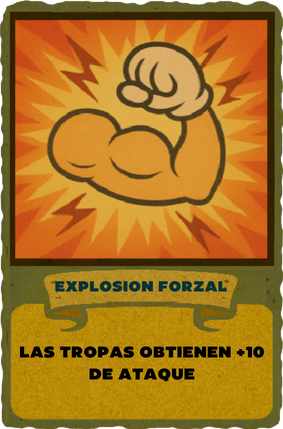
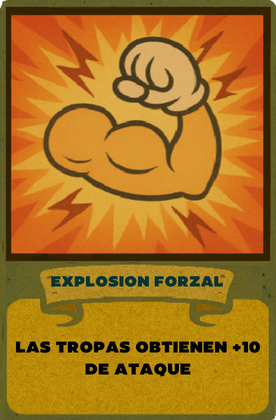
VERSION (0.28)
Editado tipo de Imagen de las Cartas Efectos, Cambiado el Sistema de Orden de los mismos con RegistroEfectos (Aunque tambien se agregan desde PantallaSeleccionEfecto)

Agregado (1) Nuevo Efecto:
-TYSON

diff --git a/core/src/main/java/mijuego/picadoh/efectos/RegistroEfectos.java b/core/src/main/java/mijuego/picadoh/efectos/RegistroEfectos.java
@@ -1,0 +1,57 @@
+package mijuego.picadoh.efectos;
+
+import java.util.*;
+import java.lang.reflect.Constructor;
+
+public final class RegistroEfectos {
+    private RegistroEfectos() {}
+
+    private static final List<Class<? extends CartaEfecto>> EFECTOS = List.of(
+        Acelereitor.class,
+        EscudoReal.class,
+        ExplosionForzal.class,
+        MagiaBendita.class,
+        SenoraArmadura.class,
+        Tyson.class
+    );
+
+    public static List<Class<? extends CartaEfecto>> efectosDisponibles() {
+        return EFECTOS;
+    }
+
+    public static CartaEfecto crear(Class<? extends CartaEfecto> clazz) {
+        try {
+            Constructor<? extends CartaEfecto> ctor = clazz.getDeclaredConstructor();
+            ctor.setAccessible(true);
+            return ctor.newInstance();
+        } catch (Exception e) {
+            throw new RuntimeException("No se pudo instanciar " + clazz.getSimpleName(), e);
+        }
+    }
+
+    public static Optional<CartaEfecto> crearPorNombre(String nombre) {
+        for (Class<? extends CartaEfecto> c : EFECTOS) {
+            // Coincidencia por nombre de clase
+            if (c.getSimpleName().equalsIgnoreCase(nombre)) {
+                return Optional.of(crear(c));
+            }
+
+            try {
+                CartaEfecto tmp = crear(c);
+                if (tmp.getNombre().equalsIgnoreCase(nombre)) {
+                    return Optional.of(tmp);
+                }
+            } catch (RuntimeException ignored) {}
+        }
+        return Optional.empty();
+    }
+
+    public static List<CartaEfecto> aleatorias(int n, Random rnd) {
+        List<Class<? extends CartaEfecto>> copia = new ArrayList<>(EFECTOS);
+        Collections.shuffle(copia, rnd);
+        int k = Math.min(n, copia.size());
+        List<CartaEfecto> out = new ArrayList<>(k);
+        for (int i = 0; i < k; i++) out.add(crear(copia.get(i)));
+        return out;
+    }
+}

diff --git a/core/src/main/java/mijuego/picadoh/PantallaSeleccionEfecto.java b/core/src/main/java/mijuego/picadoh/PantallaSeleccionEfecto.java
@@ -17,23 +17,27 @@ public class PantallaSeleccionEfecto implements Screen {
     private final Principal juego;
     private Texture fondo;
 
-
-    private static final int L_X = 340;
+    // Cartas grandes de efectos (mismas medidas para ambas)
+    private static final int L_X = 336;
     private static final int L_Y = 75;
     private static final int L_W = 924 - 336; // 588
-    private static final int L_H = 795 - 75;  // 718
+    private static final int L_H = 793 - 75;  // 718
 
-    private static final int R_X = 1028;
+    // Mantener el borde derecho en 1609 y usar el mismo tamaño que la izquierda
+    private static final int R_W = L_W;       // 588
+    private static final int R_H = L_H;       // 718
+    private static final int R_X = 1609 - R_W; // 1021
     private static final int R_Y = 75;
-    private static final int R_W = 1609 - 1024; // 585
-    private static final int R_H = 795 - 75;    // 718
 
+    // Lista actual de efectos (puedes migrar a RegistroEfectos cuando quieras)
     private final List<Class<? extends CartaEfecto>> clasesEfecto = Arrays.asList(
         ExplosionForzal.class,
         SenoraArmadura.class,
         MagiaBendita.class,
         EscudoReal.class,
-        Acelereitor.class
+        Acelereitor.class,
+        Tyson.class
+
     );
 
     private final List<CartaEfecto> cartasEfectoElegidas = new ArrayList<>();

diff --git a/core/src/main/java/mijuego/picadoh/efectos/Tyson.java b/core/src/main/java/mijuego/picadoh/efectos/Tyson.java
@@ -1,0 +1,16 @@
+package mijuego.picadoh.efectos;
+
+import mijuego.picadoh.batalla.ContextoBatalla;
+
+public class Tyson extends CartaEfecto {
+
+    public Tyson() {
+        super("TYSON", "lwjgl3/assets/efectos/TYSON.png");
+    }
+
+    @Override
+    public void aplicarEfecto(ContextoBatalla contexto) {
+        contexto.restarVidaEnemiga(5);
+        System.out.println("[EFECTO] Tyson inflige 5 de daño directo al enemigo.");
+    }
+}
